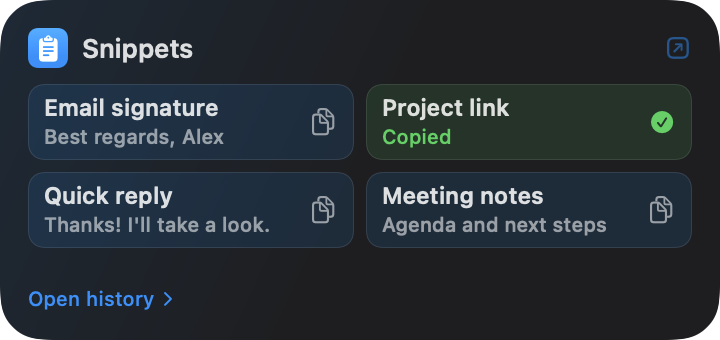
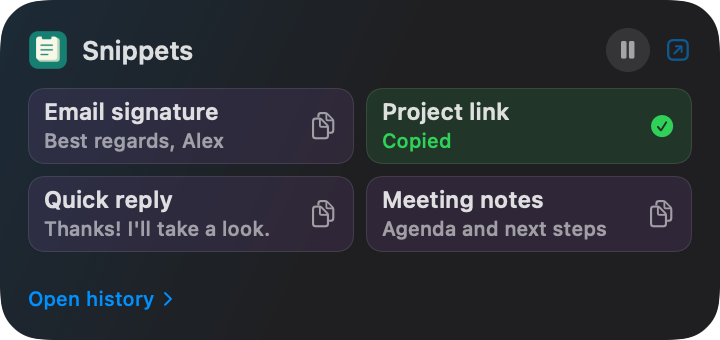
Desktop widget: Large size, Pause/Resume button, refreshed design
- Large size: up to 12 favorites (8 with text previews) in two columns.
  The widget snapshot now carries up to 12 items per collection.
- Pause / Resume button in the header. The widget can't change the app
  directly, so it leaves a small request in the shared folder; the app
  applies it on its capture timer (stale requests are ignored) and
  refreshes the widget, which then shows "Capture paused".
- Design: the app icon replaces the generic glyph in the header (shown
  desaturated in tinted / accented desktop styles on macOS 15+), and
  pinboards show their colour as a header dot and tile tint. Snippets
  use purple.
- The snapshot's pause state and pinboard colours are optional fields,
  so older snapshots still load; nothing is shared while Favorites is off.

Tests: native checks for 12 items, colours and pause in the snapshot,
older-snapshot decoding, and the request being taken once / ignored when
stale. Previews add Large (light and dark) and a paused pinboard.

diff --git a/macos/ClipShelfWidgets/ClipShelfWidgets.swift b/macos/ClipShelfWidgets/ClipShelfWidgets.swift
@@ -51,6 +51,35 @@ struct CopyFavoriteIntent: AppIntent {
     }
   }
 }
+/// The widget's Pause / Resume button. The app applies the request within
+/// about a second and refreshes the widget.
+struct SetCapturePausedIntent: AppIntent {
+  static var title: LocalizedStringResource = "Pause or resume ClipShelf"
+  static var description = IntentDescription("Pause or resume clipboard capture.")
+  static var openAppWhenRun = false
+  @Parameter(title: "Paused") var paused: Bool
+  init() {}
+  init(paused: Bool) { self.paused = paused }
+  func perform() async throws -> some IntentResult {
+    try WidgetFavoritesStore.live().requestCapture(paused: paused)
+    return .result()
+  }
+}
+/// ClipShelf's app icon (64 px), embedded so the widget needs no asset catalog.
+enum WidgetArtwork {
[1 lines of base64/hex data omitted]
+  /// Pinboard colours, matching the app's palette; Snippets use purple.
+  static let boards: [Color] = [
+    Color(red: 0.36, green: 0.50, blue: 0.87), Color(red: 0.91, green: 0.54, blue: 0.31),
+    Color(red: 0.68, green: 0.46, blue: 0.80), Color(red: 0.33, green: 0.65, blue: 0.55),
+    Color(red: 0.84, green: 0.47, blue: 0.56), Color(red: 0.78, green: 0.66, blue: 0.29),
+  ]
+  static let snippets = Color(red: 0.61, green: 0.36, blue: 0.78)
+  static func tint(for collection: WidgetCollection?) -> Color {
+    guard let index = collection?.colorIndex else { return snippets }
+    return boards[abs(index) % boards.count]
+  }
+}
 struct FavoritesEntry: TimelineEntry {
   let date: Date
   let collection: WidgetCollection?
@@ -58,6 +87,7 @@ struct FavoritesEntry: TimelineEntry {
   let showPreviews: Bool
   let copiedID: String?
   var storageAvailable: Bool = true
+  var paused: Bool = false
 }
 struct FavoritesProvider: AppIntentTimelineProvider {
   func placeholder(in context: Context) -> FavoritesEntry {
@@ -71,7 +101,8 @@ struct FavoritesProvider: AppIntentTimelineProvider {
   func timeline(for configuration: FavoritesConfiguration, in context: Context) async -> Timeline<FavoritesEntry> {
     let first = entry(configuration)
     let cleared = FavoritesEntry(date: Date().addingTimeInterval(10), collection: first.collection,
-      enabled: first.enabled, showPreviews: first.showPreviews, copiedID: nil, storageAvailable: first.storageAvailable)
+      enabled: first.enabled, showPreviews: first.showPreviews, copiedID: nil, storageAvailable: first.storageAvailable,
+      paused: first.paused)
     return Timeline(entries: first.copiedID == nil ? [first] : [first, cleared], policy: .after(Date().addingTimeInterval(900)))
   }
   private func entry(_ configuration: FavoritesConfiguration) -> FavoritesEntry {
@@ -80,7 +111,8 @@ struct FavoritesProvider: AppIntentTimelineProvider {
     let collection = configuration.collection.map { selected in data.collections.first { $0.id == selected.id } }
       ?? data.collections.first
     return FavoritesEntry(date: Date(), collection: collection, enabled: data.enabled,
-      showPreviews: configuration.showPreviews, copiedID: store.copiedID(), storageAvailable: store.available)
+      showPreviews: configuration.showPreviews, copiedID: store.copiedID(), storageAvailable: store.available,
+      paused: data.paused ?? false)
   }
 }
 /// ImageRenderer cannot draw a system Link; preview builds render the identical label.
@@ -119,7 +151,11 @@ struct FavoritesContentView: View {
       if !entry.enabled {
         message(entry.storageAvailable ? "Enable Desktop Favorites in ClipShelf Preferences." : "Open ClipShelf once to set up Favorites.")
       } else if let collection = entry.collection, !collection.items.isEmpty {
-        let limit = entry.showPreviews ? (family == .systemSmall ? 2 : 4) : (family == .systemSmall ? 3 : 6)
+        let limit = switch family {
+        case .systemSmall: entry.showPreviews ? 2 : 3
+        case .systemLarge: entry.showPreviews ? 8 : 12
+        default: entry.showPreviews ? 4 : 6
+        }
         if family == .systemSmall {
           ForEach(Array(collection.items.prefix(limit))) { item in favoriteRow(item) }
         } else {
@@ -141,27 +177,57 @@ struct FavoritesContentView: View {
     }
     .containerBackground(for: .widget) {
       if fullColor {
-        LinearGradient(colors: [Color.accentColor.opacity(0.10), Color.clear], startPoint: .topLeading, endPoint: .center)
+        LinearGradient(colors: [tint.opacity(0.12), Color.clear], startPoint: .topLeading, endPoint: .center)
           .background(.background)
       } else {
         Color.clear
       }
     }
   }
+  private var tint: Color { WidgetArtwork.tint(for: entry.collection) }
   private var header: some View {
-    HStack(spacing: 7) {
-      Image(systemName: "list.clipboard.fill")
-        .font(.system(size: 11, weight: .semibold))
-        .foregroundStyle(.white)
-        .frame(width: 20, height: 20)
-        .background(Color.accentColor.gradient, in: RoundedRectangle(cornerRadius: 5, style: .continuous))
-        .widgetAccentable()
-      Text(entry.collection?.name ?? "Favorites").font(.system(size: 13, weight: .semibold)).lineLimit(1)
-      Spacer(minLength: 0)
-      FavoritesLink(destination: floatingURL) {
-        Image(systemName: "arrow.up.forward.app").font(.system(size: 12, weight: .medium)).foregroundStyle(.secondary)
+    VStack(alignment: .leading, spacing: 4) {
+      HStack(spacing: 7) {
+        appIcon
+        if entry.collection?.colorIndex != nil {
+          Circle().fill(tint).frame(width: 7, height: 7).widgetAccentable()
+        }
+        Text(entry.collection?.name ?? "Favorites").font(.system(size: 13, weight: .semibold)).lineLimit(1)
+        Spacer(minLength: 0)
+        if entry.enabled {
+          Button(intent: SetCapturePausedIntent(paused: !entry.paused)) {
+            Image(systemName: entry.paused ? "play.fill" : "pause.fill")
+              .font(.system(size: 10, weight: .bold))
+              .foregroundStyle(entry.paused ? AnyShapeStyle(.orange) : AnyShapeStyle(.secondary))
+              .frame(width: 22, height: 22)
+              .background(.quaternary, in: Circle())
+              .contentTransition(.symbolEffect(.replace))
+          }
+          .buttonStyle(.plain)
+          .accessibilityLabel(entry.paused ? "Resume clipboard capture" : "Pause clipboard capture")
+        }
+        FavoritesLink(destination: floatingURL) {
+          Image(systemName: "arrow.up.forward.app").font(.system(size: 12, weight: .medium)).foregroundStyle(.secondary)
+        }
+        .accessibilityLabel("Open floating panel")
       }
-      .accessibilityLabel("Open floating panel")
+      if entry.enabled && entry.paused {
+        Label("Capture paused", systemImage: "pause.circle.fill")
+          .font(.caption2.weight(.medium)).foregroundStyle(.orange).lineLimit(1)
+      }
+    }
+  }
+  /// The real app icon; a tinted glyph if it can't load. In tinted / accented
+  /// desktop styles it is shown desaturated, like other apps' icons.
+  @ViewBuilder private var appIcon: some View {
+    if let icon = WidgetArtwork.appIcon {
+      if #available(macOS 15.0, *) {
+        Image(nsImage: icon).resizable().widgetAccentedRenderingMode(.accentedDesaturated).frame(width: 20, height: 20)
+      } else {
+        Image(nsImage: icon).resizable().frame(width: 20, height: 20)
+      }
+    } else {
+      Image(systemName: "list.clipboard.fill").font(.system(size: 13, weight: .semibold)).foregroundStyle(tint).widgetAccentable()
     }
   }
   private func message(_ text: String) -> some View {
@@ -169,7 +235,7 @@ struct FavoritesContentView: View {
       Spacer(minLength: 0)
       Text(text).font(.caption).foregroundStyle(.secondary)
       FavoritesLink("Open ClipShelf", destination: floatingURL).font(.caption.bold())
-        .foregroundStyle(Color.accentColor).widgetAccentable()
+        .foregroundStyle(tint).widgetAccentable()
       Spacer(minLength: 0)
     }
   }
@@ -195,7 +261,7 @@ struct FavoritesContentView: View {
       .frame(maxWidth: .infinity, alignment: .leading)
       .background {
         RoundedRectangle(cornerRadius: 8, style: .continuous)
-          .fill(fullColor ? AnyShapeStyle((copied ? Color.green : Color.accentColor).opacity(0.12)) : AnyShapeStyle(.quaternary))
+          .fill(fullColor ? AnyShapeStyle((copied ? Color.green : tint).opacity(0.13)) : AnyShapeStyle(.quaternary))
       }
       .overlay {
         RoundedRectangle(cornerRadius: 8, style: .continuous)
@@ -217,7 +283,7 @@ struct ClipShelfFavoritesWidget: Widget {
     }
     .configurationDisplayName("ClipShelf Favorites")
     .description("Copy saved text from your snippets and pinboards.")
-    .supportedFamilies([.systemSmall, .systemMedium])
+    .supportedFamilies([.systemSmall, .systemMedium, .systemLarge])
   }
 }
 

diff --git a/macos/Shared/WidgetFavorites.swift b/macos/Shared/WidgetFavorites.swift
@@ -11,15 +11,29 @@ struct WidgetCollection: Codable, Equatable, Identifiable {
   let name: String
   let items: [WidgetFavorite]
   let total: Int
+  /// The pinboard's colour index (as in the app); nil for Snippets. Optional
+  /// so snapshots written by older builds still decode.
+  var colorIndex: Int? = nil
 }
 struct WidgetFavorites: Codable, Equatable {
   var enabled: Bool
   var collections: [WidgetCollection]
+  /// Whether clipboard capture is paused, for the widget's Pause button.
+  var paused: Bool? = nil
   static let empty = WidgetFavorites(enabled: false, collections: [])
+  /// Most favorites any widget size shows (Large shows 12).
+  static let maxItems = 12
   /// Copy must preserve the whole value. Large entries stay in the main app.
-  static func collection(id: String, name: String, items: [WidgetFavorite]) -> WidgetCollection {
-    WidgetCollection(id: id, name: String(name.prefix(60)), items: Array(items.filter { !$0.text.isEmpty && $0.text.utf8.count <= 8192 }.prefix(6)).map { WidgetFavorite(id: $0.id, title: String($0.title.prefix(80)), text: $0.text) }, total: items.count)
+  static func collection(id: String, name: String, items: [WidgetFavorite], colorIndex: Int? = nil) -> WidgetCollection {
+    WidgetCollection(id: id, name: String(name.prefix(60)), items: Array(items.filter { !$0.text.isEmpty && $0.text.utf8.count <= 8192 }.prefix(maxItems)).map { WidgetFavorite(id: $0.id, title: String($0.title.prefix(80)), text: $0.text) }, total: items.count, colorIndex: colorIndex)
   }
+}
+/// A Pause / Resume tap in the widget. The widget can't change the app's
+/// state itself, so it leaves this request in the shared folder and the app
+/// applies it on its next capture tick.
+struct WidgetCaptureRequest: Codable, Equatable {
+  let paused: Bool
+  let date: Date
 }
 struct WidgetCopyFeedback: Codable {
   let id: String
@@ -109,6 +123,21 @@ struct WidgetFavoritesStore {
     guard let directory = directory else { return }
     let data = try JSONEncoder().encode(WidgetCopyFeedback(id: id, date: Date()))
     try data.write(to: directory.appendingPathComponent("widget-copied.json"), options: .atomic)
+  }
+  private var captureRequestFile: URL? { directory?.appendingPathComponent("widget-capture-request.json") }
+  /// Called by the widget's Pause / Resume button.
+  func requestCapture(paused: Bool, now: Date = Date()) throws {
+    guard let file = captureRequestFile else { return }
+    try JSONEncoder().encode(WidgetCaptureRequest(paused: paused, date: now)).write(to: file, options: .atomic)
+  }
+  /// Called by the app: returns and removes a pending request. Requests older
+  /// than two minutes (e.g. tapped while ClipShelf wasn't running) are dropped.
+  func takeCaptureRequest(now: Date = Date()) -> Bool? {
+    guard let file = captureRequestFile, let data = try? Data(contentsOf: file) else { return nil }
+    try? FileManager.default.removeItem(at: file)
+    guard let request = try? JSONDecoder().decode(WidgetCaptureRequest.self, from: data),
+      abs(now.timeIntervalSince(request.date)) < 120 else { return nil }
+    return request.paused
   }
   func copiedID(now: Date = Date()) -> String? {
     guard let directory = directory,

diff --git a/macos/Runner/WidgetLibraryExporter.swift b/macos/Runner/WidgetLibraryExporter.swift
@@ -2,7 +2,7 @@ import Foundation
 import WidgetKit
 
 enum WidgetLibraryExporter {
-  static func snapshot(clips: [Clip], boards: [Pinboard], enabled: Bool) -> WidgetFavorites {
+  static func snapshot(clips: [Clip], boards: [Pinboard], enabled: Bool, paused: Bool = false) -> WidgetFavorites {
     let savedText = clips.filter { $0.kind == "text" && $0.retained && !$0.text.isEmpty }
     func favorites(_ clips: [Clip]) -> [WidgetFavorite] {
       clips.map { WidgetFavorite(id: $0.id, title: $0.title, text: $0.text) }
@@ -11,7 +11,7 @@ enum WidgetLibraryExporter {
     if enabled {
       collections.append(WidgetFavorites.collection(id: "snippets", name: "Snippets", items: favorites(savedText.filter(\.snippet))))
       for board in boards {
-        collections.append(WidgetFavorites.collection(id: board.id, name: board.name, items: favorites(savedText.filter { $0.boardID == board.id })))
+        collections.append(WidgetFavorites.collection(id: board.id, name: board.name, items: favorites(savedText.filter { $0.boardID == board.id }), colorIndex: board.color))
       }
     }
     // Bound the encoded payload too: control characters can expand during JSON encoding.
@@ -23,9 +23,9 @@ enum WidgetLibraryExporter {
         remaining -= size
         return true
       }
-      return WidgetCollection(id: collection.id, name: collection.name, items: items, total: collection.total)
+      return WidgetCollection(id: collection.id, name: collection.name, items: items, total: collection.total, colorIndex: collection.colorIndex)
     }
-    return WidgetFavorites(enabled: enabled, collections: bounded)
+    return WidgetFavorites(enabled: enabled, collections: bounded, paused: enabled ? paused : nil)  // nothing shared while off
   }
 }
 extension ClipboardBridge {
@@ -33,8 +33,16 @@ extension ClipboardBridge {
     let store = widgetStore
     guard store.available else { return }
     do {
-      let snapshot = WidgetLibraryExporter.snapshot(clips: archive.clips, boards: archive.boards ?? [], enabled: widgetSharing)
+      let snapshot = WidgetLibraryExporter.snapshot(clips: archive.clips, boards: archive.boards ?? [], enabled: widgetSharing, paused: archive.paused)
       if try store.write(snapshot) { WidgetCenter.shared.reloadTimelines(ofKind: "ClipShelfFavorites") }
     } catch { warning = "Desktop Favorites could not be updated. Your library is still available here." }
+  }
+}
+extension ClipboardBridge {
+  /// Applies a Pause / Resume tapped in the widget (checked on the capture timer).
+  func applyWidgetCaptureRequest() {
+    guard widgetSharing, let paused = widgetStore.takeCaptureRequest(), paused != archive.paused else { return }
+    archive.paused = paused
+    configureScreenshots(); persist(); publish()
   }
 }

diff --git a/native_tests/main.swift b/native_tests/main.swift
@@ -322,6 +322,22 @@ check(policyBridge.archive.clips.count == 100 && policyBridge.archive.clips.firs
 check(ClipboardBridge.webLink("https://www.linkedin.com/in/mrtarunsaraswat/") != nil, "the credit's profile link can be opened")
 check(ClipboardBridge.webLink("http://example.com") == nil && ClipboardBridge.webLink("file:///etc/hosts") == nil && ClipboardBridge.webLink("clipshelf://open") == nil, "openURL refuses non-https links, files and app schemes")
 
+let manyFavorites = (0..<15).map { WidgetFavorite(id: "f\($0)", title: "Favorite \($0)", text: "text \($0)") }
+check(WidgetFavorites.collection(id: "snippets", name: "Snippets", items: manyFavorites).items.count == 12, "the widget gets up to 12 favorites, enough for the Large size")
+let colouredBoard = Pinboard(id: "launch", name: "Launch", color: 3)
+let colouredClip = Clip(id: "pinned-text", title: "Pinned", text: "Pinned text", kind: "text", source: "Test", date: 0, snippet: false, items: [], preview: nil, boardID: "launch")
+let colouredSnapshot = WidgetLibraryExporter.snapshot(clips: [colouredClip], boards: [colouredBoard], enabled: true, paused: true)
+check(colouredSnapshot.paused == true && colouredSnapshot.collections.last?.colorIndex == 3 && colouredSnapshot.collections.first?.colorIndex == nil, "the widget snapshot carries the pause state and each pinboard's colour")
+let olderSnapshot = Data(#"{"enabled":true,"collections":[{"id":"snippets","name":"Snippets","items":[],"total":0}]}"#.utf8)
+check((try? JSONDecoder().decode(WidgetFavorites.self, from: olderSnapshot))?.paused == nil, "snapshots from older builds still load")
+let requestFolder = folder.appendingPathComponent("widget-requests", isDirectory: true)
+try FileManager.default.createDirectory(at: requestFolder, withIntermediateDirectories: true)
+let requestStore = WidgetFavoritesStore(directory: requestFolder)
+try requestStore.requestCapture(paused: true)
+check(requestStore.takeCaptureRequest() == true && requestStore.takeCaptureRequest() == nil, "the widget's Pause request is taken once")
+try requestStore.requestCapture(paused: false, now: Date().addingTimeInterval(-600))
+check(requestStore.takeCaptureRequest() == nil, "a stale Pause request (app wasn't running) is ignored")
+
 let localGroup = "ABCDE12345.clipshelf"
 check(WidgetFavoritesStore.authorizes(group: localGroup, memberships: [localGroup], signingTeam: "ABCDE12345"), "macOS Team-ID group accepts its actual signing team")
 check(!WidgetFavoritesStore.authorizes(group: localGroup, memberships: [localGroup], signingTeam: "OTHER12345"), "macOS Team-ID group rejects a different signer")

diff --git a/tool/render_widget_preview.swift b/tool/render_widget_preview.swift
@@ -24,12 +24,26 @@ struct WidgetPreviewRenderer {
       ("medium-text", .systemMedium, 360, true, .light, nil),
       // Dark appearance, with the second favorite in its "Copied" state.
       ("medium-dark", .systemMedium, 360, true, .dark, "two"),
+      ("large", .systemLarge, 360, false, .light, nil),
+      ("large-dark", .systemLarge, 360, true, .dark, nil),
     ]
+    // A paused pinboard, to show the pinboard colour and the paused state.
+    let board = WidgetCollection(id: "launch", name: "Launch week", items: Array(samples.prefix(4)), total: 4, colorIndex: 1)
+    let paused = FavoritesEntry(date: Date(), collection: board, enabled: true, showPreviews: false, copiedID: nil, paused: true)
+    let pausedView = FavoritesContentView(entry: paused, family: .systemMedium)
+      .padding(14).frame(width: 360, height: 170)
+      .background(Color.white).clipShape(RoundedRectangle(cornerRadius: 22, style: .continuous))
+      .environment(\.colorScheme, .light)
+    let pausedRenderer = ImageRenderer(content: pausedView); pausedRenderer.scale = 2
+    if let image = pausedRenderer.cgImage, let data = NSBitmapImageRep(cgImage: image).representation(using: .png, properties: [:]) {
+      try data.write(to: URL(fileURLWithPath: "widget-medium-paused-preview.png"))
+    }
     for (name, family, width, previews, scheme, copied) in variants {
-      let entry = FavoritesEntry(date: Date(), collection: collection, enabled: true, showPreviews: previews, copiedID: copied)
+      let shown = family == .systemLarge ? WidgetCollection(id: "snippets", name: "Snippets", items: samples + samples.map { WidgetFavorite(id: $0.id + "-2", title: $0.title + " 2", text: $0.text) }, total: 12) : collection
+      let entry = FavoritesEntry(date: Date(), collection: shown, enabled: true, showPreviews: previews, copiedID: copied)
       let background = scheme == .dark ? Color(red: 0.12, green: 0.12, blue: 0.13) : Color.white
       let content = FavoritesContentView(entry: entry, family: family)
-        .padding(14).frame(width: width, height: 170)
+        .padding(14).frame(width: width, height: family == .systemLarge ? 376 : 170)
         .background(LinearGradient(colors: [Color.accentColor.opacity(0.10), .clear], startPoint: .topLeading, endPoint: .center))
         .background(background)
         .clipShape(RoundedRectangle(cornerRadius: 22, style: .continuous))

diff --git a/macos/Runner/MainFlutterWindow.swift b/macos/Runner/MainFlutterWindow.swift
@@ -331,6 +331,7 @@ final class ClipboardBridge: NSObject {
       self?.capture()
       self?.refreshScreenshotFolderIfNeeded()
       self?.expireOldHistory()
+      self?.applyWidgetCaptureRequest()
     }
     NSWorkspace.shared.notificationCenter.addObserver(self, selector: #selector(appActivated(_:)), name: NSWorkspace.didActivateApplicationNotification, object: nil)
     NSWorkspace.shared.notificationCenter.addObserver(self, selector: #selector(appResigned), name: NSWorkspace.activeSpaceDidChangeNotification, object: nil)

diff --git a/docs/USER_GUIDE.md b/docs/USER_GUIDE.md
@@ -61,7 +61,7 @@ Open the **floating panel** from the menu-bar icon's right-click menu, the quick
 
 Clicking a widget favorite **copies** its full text without opening ClipShelf. Paste it in your app with ⌘V. The header opens the floating panel; Open history opens the shelf. Direct paste is available from the floating panel. WidgetKit controls refresh timing; host changes request a refresh, with a periodic fallback rather than an instant-update guarantee.
 
-Sharing is off by default. Only saved **text** snippets and text pinned to existing boards are exported to the widget's shared folder (the App Group in Team-signed builds, otherwise `~/Library/Application Support/ClipShelf/Widget/`). History, images, files, and original rich-format payloads are excluded. Each collection exports its first six eligible items in library order; text over 8 KiB stays in ClipShelf and is never silently truncated for copying. The shared snapshot has a 2 MB total budget; overflow entries stay in the app. Labels may be shortened for display. Disabling sharing replaces the shared snapshot with an empty one; copy actions re-read it, so stale widget buttons cannot copy a removed favorite. A cached widget display may remain briefly until WidgetKit refreshes. iCloud and Desktop Favorites are separate opt-ins.
+Sharing is off by default. Only saved **text** snippets and text pinned to existing boards are exported to the widget's shared folder (the App Group in Team-signed builds, otherwise `~/Library/Application Support/ClipShelf/Widget/`). History, images, files, and original rich-format payloads are excluded. Each collection exports its first 12 eligible items in library order; text over 8 KiB stays in ClipShelf and is never silently truncated for copying. The shared snapshot has a 2 MB total budget; overflow entries stay in the app. Labels may be shortened for display. Disabling sharing replaces the shared snapshot with an empty one; copy actions re-read it, so stale widget buttons cannot copy a removed favorite. A cached widget display may remain briefly until WidgetKit refreshes. iCloud and Desktop Favorites are separate opt-ins.
 
 The Preferences switch checks real read/write access to the shared folder. See [widget storage and signing](WIDGETS.md) for how the folder is chosen and for Team-signed builds.
 

diff --git a/docs/WIDGETS.md b/docs/WIDGETS.md
@@ -60,7 +60,7 @@ An App Group string passed to the ordinary ad-hoc build script alone does not gr
 
 Install the signed build at a stable path, launch it, and enable **Desktop Favorites widget** in Preferences. Save text snippets or pin text to a board. On macOS 14+, choose **Edit Widgets**, find **ClipShelf Favorites**, and add a small or medium widget. Edit Widget selects the collection and preview preference. Click a favorite to copy, then ⌘V in the destination app. Open history and the header shortcut open the existing app window.
 
-The widget is a view of the same local library. There is no second favorites database to edit. Images/files and unsaved history never enter its shared snapshot. Up to six text entries per collection, at most 8 KiB of UTF-8 text each, are available; the small widget shows three. With previews enabled, the small widget shows two and the medium widget shows four to keep text legible. Long text remains accessible in the app. The shared snapshot has a 2 MB total budget; overflow entries stay in the app. Text is copied exactly; titles may be shortened. Previews are off by default, but titles are visible.
+The widget is a view of the same local library. There is no second favorites database to edit. Images/files and unsaved history never enter its shared snapshot. Up to 12 text entries per collection, at most 8 KiB of UTF-8 text each, are available. Small shows 3, Medium 6 and Large 12; with previews enabled they show 2, 4 and 8 to keep text legible. The header shows the app icon, the collection's name and, for a pinboard, its colour (tiles take the same tint). The ⏸ / ▶ button pauses or resumes clipboard capture: the widget leaves a request in the shared folder and ClipShelf applies it within about a second (requests older than two minutes, e.g. while ClipShelf wasn't running, are ignored). While paused the widget says *Capture paused*. Long text remains accessible in the app. The shared snapshot has a 2 MB total budget; overflow entries stay in the app. Text is copied exactly; titles may be shortened. Previews are off by default, but titles are visible.
 
 ## Remaining live widget checks
 

diff --git a/CHANGELOG.md b/CHANGELOG.md
@@ -2,6 +2,8 @@
 
 ## Unreleased
 
+- **Desktop widget:** a Large size (up to 12 favorites), a Pause / Resume button, the app icon in the header, and pinboard colours on the header and tiles.
+- **In-app logo** now matches the app icon.
 - **History settings:** Preferences → History adds *Keep history for* (Forever, 1 day, 1 week, 1 month) and *History size* (100–1,000 items), with a storage-used meter.
 - **No more duplicates from repeat ⌘C** in VS Code and other Chromium apps; repeat copies move the existing item to the front.
 - **iCloud sync is marked Coming soon** in Preferences for builds without CloudKit provisioning.
